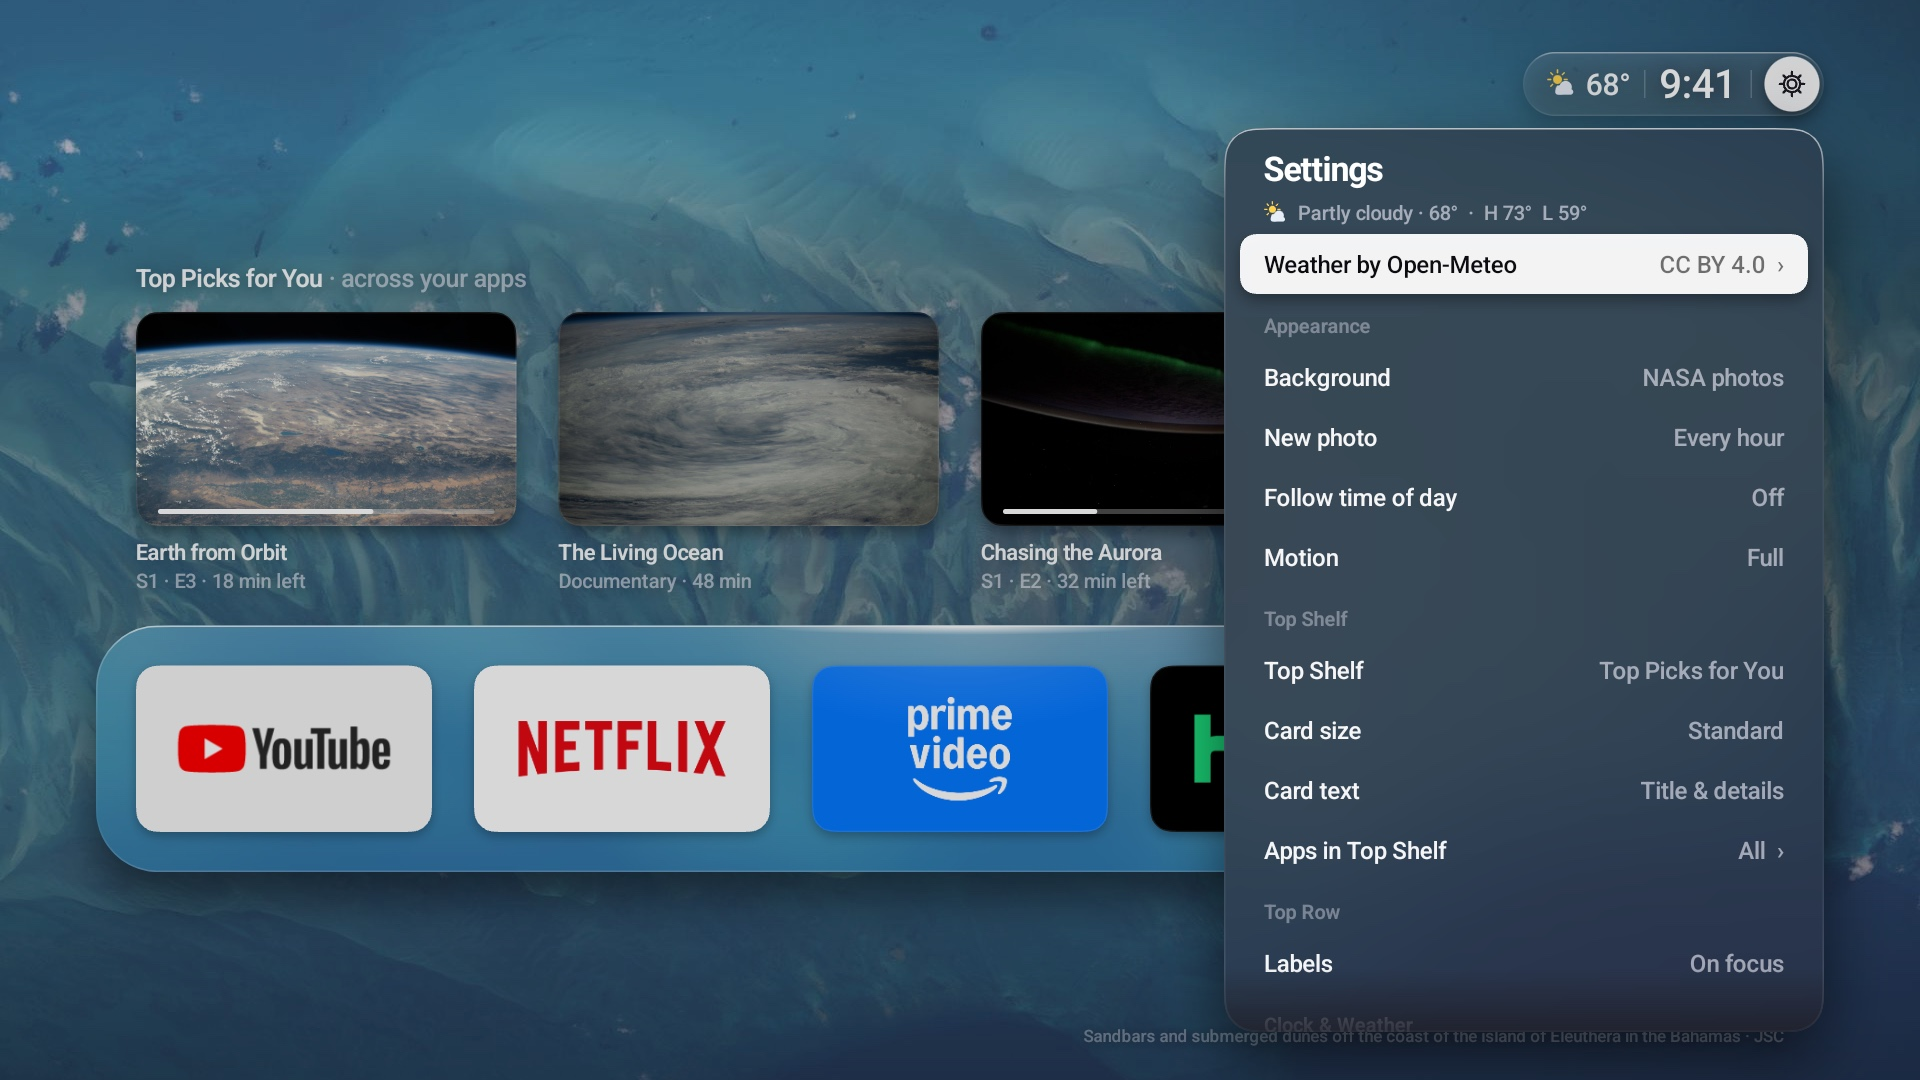
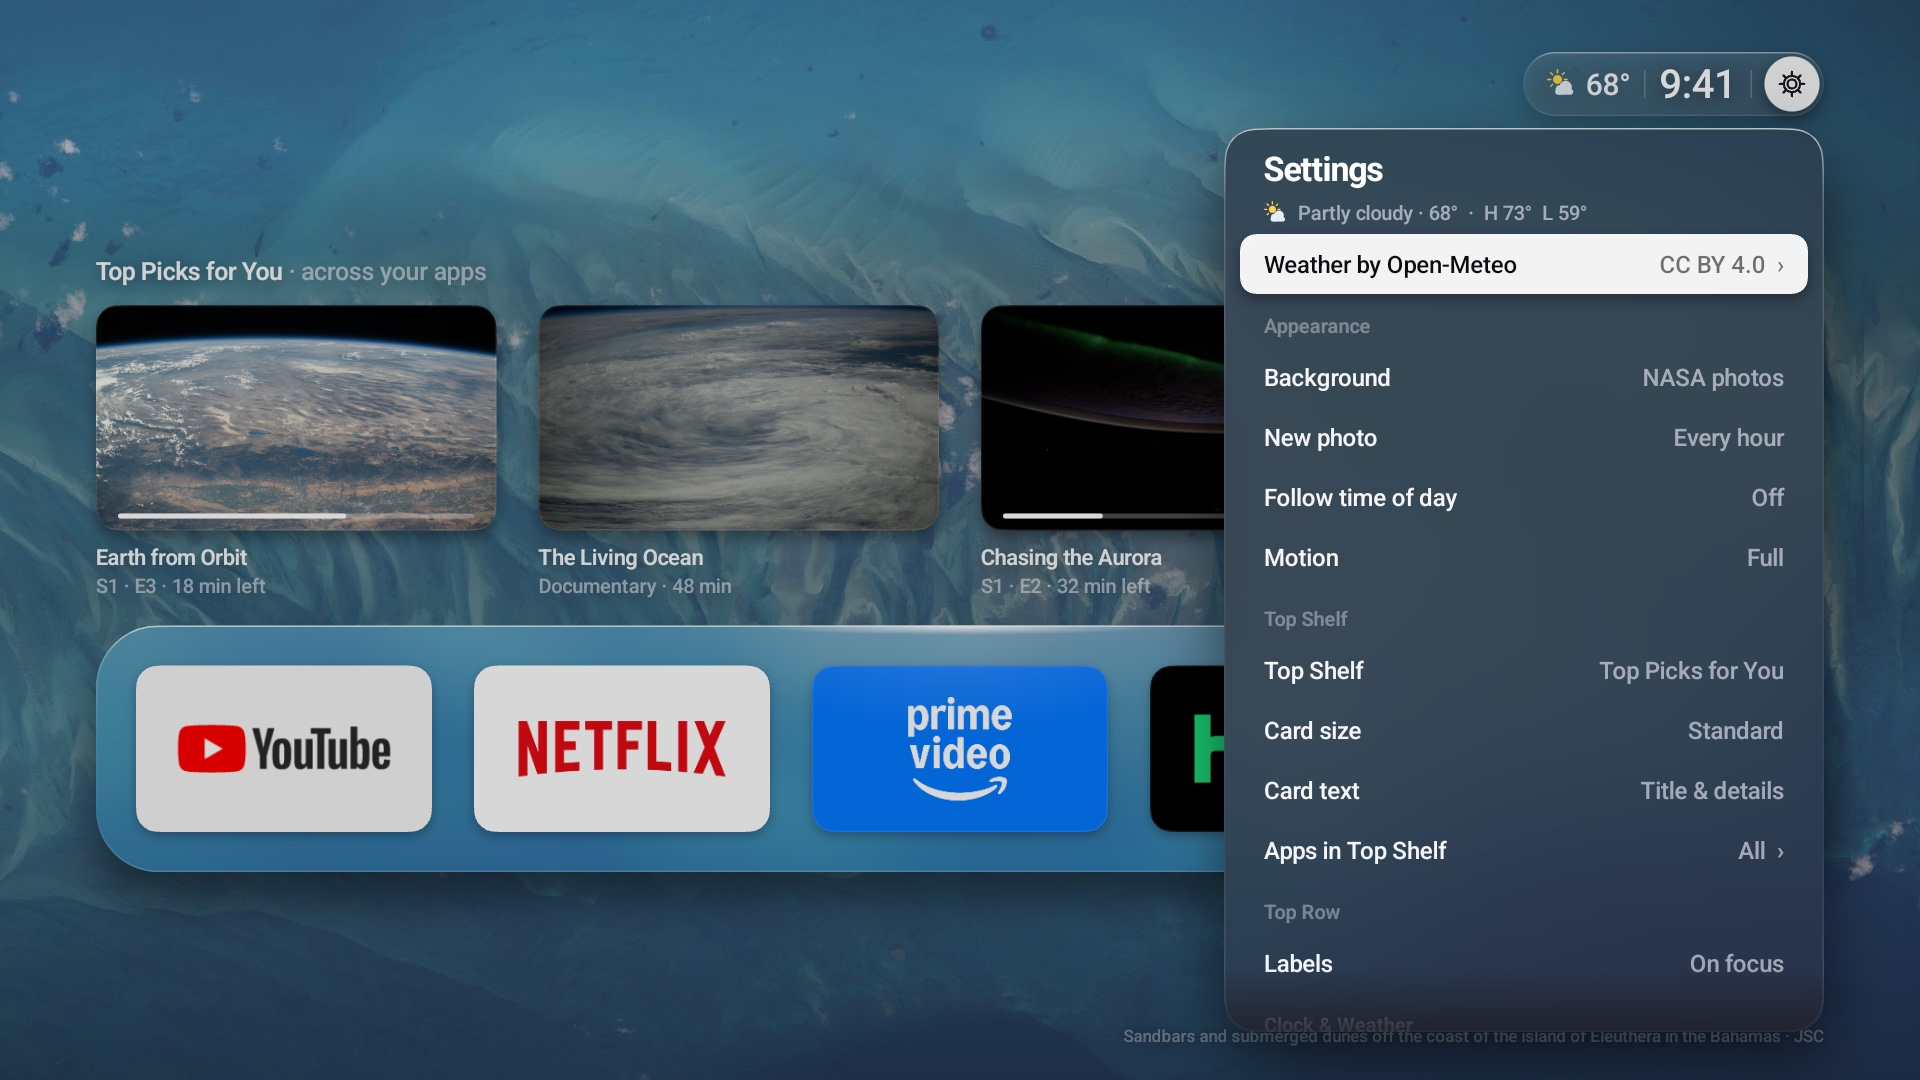
Align the shelf and text to the dock's outer edges
As on main, the Top Shelf heading and first card start on the dock's outer
left edge; the cards now span the dock edge to edge. The clock, date and
photo credit end on its outer right edge, where the focused clock pill
ends, and the All Apps heading and hint start on its left edge.

Changed region(s): [[0.0312, 0.2444, 0.625, 0.55], [0.5, 0.4583, 0.6562, 0.55], [0.5625, 0.9472, 0.9062, 0.9778]]

diff --git a/app/src/dev/lumen/tv/HomeView.java b/app/src/dev/lumen/tv/HomeView.java
@@ -43,11 +43,13 @@ final class HomeView extends View implements Overlays.Host {
 
     // ---- Layout (design px) ----
     private static final float PAD = 40, GAP = 42, TILE_W = AppStore.TILE_W, TILE_H = AppStore.TILE_H;
-    private static final float DOCK_W = Ui.W - 2 * Ui.SAFE_X, LEFT = Ui.SAFE_X + PAD, RIGHT = Ui.W - LEFT;  // ROW_MAX tiles fill the dock exactly; text aligns to the tiles
+    private static final float DOCK_W = Ui.W - 2 * Ui.SAFE_X, LEFT = Ui.SAFE_X + PAD;  // ROW_MAX tiles fill the dock exactly
+    // The dock's outer edges: the shelf, headings and text start and end here, like the dock itself
+    private static final float EDGE_L = Ui.SAFE_X, EDGE_R = Ui.W - Ui.SAFE_X;
     // Tiles and cards use Apple's 60% corner smoothing; the dock's outline is the tiles' outline grown by PAD
     private static final float R_TILE = 22, TILE_SMOOTH = .6f, R_DOCK = R_TILE + PAD, DOCK_SMOOTH = concentric(R_TILE, TILE_SMOOTH, PAD);
     private static final float DOCK_BOTTOM = 872, ROW_MAX = 5;
-    private static final float CARD_W_MAX = 522, CARD_H_MAX = CARD_W_MAX * 9 / 16;
+    private static final float CARD_W_MAX = 548, CARD_H_MAX = CARD_W_MAX * 9 / 16;
     private float cardW, cardH, shelfTop, cardTop;  // set by layoutShelf() from the Card size setting
     private static final float GRID_TOP = 1018, GRID_STEP_Y = TILE_H + 84, APPS_SHIFT = 540;
     private static final long HEARTBEAT_MS = 3400;
@@ -716,7 +718,7 @@ final class HomeView extends View implements Overlays.Host {
     private void drawCredit(Canvas c, float appsT) {
         if (photoCredit == null || appsT > .99f) return;
         creditP.setAlpha(Math.round(Color.alpha(Ui.TEXT_3) * (1 - appsT)));
-        c.drawText(ellipsize(photoCredit, creditP, RIGHT - LEFT - HINT_ROOM), RIGHT, Ui.H - 38, creditP);  // clears the All Apps hint
+        c.drawText(ellipsize(photoCredit, creditP, EDGE_R - EDGE_L - HINT_ROOM), EDGE_R, Ui.H - 38, creditP);  // clears the All Apps hint
     }
 
     private void drawTopBar(Canvas c) {
@@ -733,7 +735,7 @@ final class HomeView extends View implements Overlays.Host {
         float f = focusOf(STATUS_KEY), fc = Ui.clamp(f, 0, 1);
         final float R = Ui.BAR_RIGHT, cy = Ui.BAR_TOP + Ui.BAR_H / 2, sep = 14, hair = 1.5f;
         float chipD = Ui.CHIP_D, gearRoom = Ui.CHIP_INSET + chipD + sep + hair + sep;  // what the chip adds on the right
-        float x = RIGHT - (RIGHT - R + gearRoom) * fc;  // right edge of the text: the tiles' edge at rest, inside the pill focused
+        float x = EDGE_R - (EDGE_R - R + gearRoom) * fc;  // right edge of the text: the dock's edge at rest, inside the pill focused
 
         float clockW = showClock ? clockP.measureText(clockText) : 0;
         String t = showWx ? weather.temp + "°" : null;
@@ -764,7 +766,7 @@ final class HomeView extends View implements Overlays.Host {
             clockP.setAlpha(255);
             c.drawText(clockText, x, cy + .36f * clockP.getTextSize(), clockP);
             if (prefs.is(Prefs.DATE, "on") && overlays.mode != Overlays.PANEL)
-                c.drawText(DateFormat.format("EEEE, MMMM d", now).toString(), RIGHT, Ui.BAR_TOP + Ui.BAR_H + 30, dateP);
+                c.drawText(DateFormat.format("EEEE, MMMM d", now).toString(), EDGE_R, Ui.BAR_TOP + Ui.BAR_H + 30, dateP);
             x -= clockW;
         }
         if (!showWx) return;
@@ -792,11 +794,12 @@ final class HomeView extends View implements Overlays.Host {
         // the focused card draws last, so its shadow lies over its neighbours
         int focusedIdx = area == Area.SHELF ? cardI : -1;
         c.save();
-        c.clipRect(Ui.SAFE_X, -Ui.H, Ui.W - Ui.SAFE_X, 2 * Ui.H);  // cards end with the dock, not at the screen edge
+        // cards end with the dock, not at the screen edge; the clip leaves room for the focus zoom, not the next card
+        c.clipRect(EDGE_L - GAP + 2, -Ui.H, EDGE_R + GAP - 2, 2 * Ui.H);
         for (int i = 0; i < shelf.items.size(); i++) {
             if (i == focusedIdx) continue;
             float x = left + i * (cardW + GAP) - cardScroll.x;
-            if (x > Ui.W - Ui.SAFE_X || x + cardW < Ui.SAFE_X) continue;
+            if (x > EDGE_R + GAP || x + cardW < EDGE_L - GAP) continue;
             drawCard(c, shelf.items.get(i), x, cardTop, a);
         }
         if (focusedIdx >= 0) drawCard(c, shelf.items.get(focusedIdx), left + focusedIdx * (cardW + GAP) - cardScroll.x, cardTop, a);
@@ -806,8 +809,8 @@ final class HomeView extends View implements Overlays.Host {
     /** Card geometry for the Card size setting. Large cards lift the shelf so their text clears the dock. */
     private void layoutShelf() {
         String size = prefs.get(Prefs.CARD_SIZE);
-        int across = "compact".equals(size) ? 5 : "large".equals(size) ? 3 : 4;  // cards span the dock's tile columns
-        cardW = (DOCK_W - 2 * PAD - (across - 1) * GAP) / across;
+        int across = "compact".equals(size) ? 5 : "large".equals(size) ? 3 : 4;  // cards span the dock, edge to edge
+        cardW = (DOCK_W - (across - 1) * GAP) / across;
         cardH = cardW * 9 / 16;
         shelfTop = Math.min(262, DOCK_BOTTOM - TILE_H - 2 * PAD - cardH - 145);
         cardTop = shelfTop + 50;
@@ -815,12 +818,12 @@ final class HomeView extends View implements Overlays.Host {
 
     /** Scrolls only once focus passes the last card that fits on screen. */
     private float cardScrollTarget() {
-        int visible = Math.max(1, (int) ((Ui.W - Ui.SAFE_X - LEFT + GAP) / (cardW + GAP)));
+        int visible = Math.max(1, (int) ((EDGE_R - EDGE_L + GAP + .5f) / (cardW + GAP)));
         return Math.max(0, cardI - (visible - 1)) * (cardW + GAP);
     }
 
-    /** The first recommendation card shares the first favorite tile's leading edge. */
-    private float shelfLeft() { return LEFT; }
+    /** The first recommendation card shares the dock's outer edge. */
+    private float shelfLeft() { return EDGE_L; }
 
     /** Bottom row: the All Apps hint on the left edge, the photo credit on the right, never overlapping. */
     private static final float HINT_ROOM = 200;
@@ -943,7 +946,7 @@ final class HomeView extends View implements Overlays.Host {
         gridHeadP.setAlpha(Math.round(Color.alpha(Ui.TEXT_2) * alpha));
         c.save();
         c.clipRect(0, DOCK_BOTTOM + 20, Ui.W, Ui.H + APPS_SHIFT);  // rows scrolling up slide under the dock
-        c.drawText("All Apps", LEFT, 966 + 26 - gridScroll.x, gridHeadP);
+        c.drawText("All Apps", EDGE_L, 966 + 26 - gridScroll.x, gridHeadP);
         int focusedIdx = area == Area.GRID ? gridI : -1;
         for (int pass = 0; pass < 2; pass++) {  // focused tile last, so its shadow lies on top
             for (int i = 0; i < rest.size(); i++) {
@@ -1062,12 +1065,12 @@ final class HomeView extends View implements Overlays.Host {
         if (a <= 0) return;
         hintP.setAlpha(Math.round(Color.alpha(Ui.TEXT_3) * a));
         float y = Ui.H - 38;
-        c.drawText("All Apps", LEFT + 22, y, hintP);
+        c.drawText("All Apps", EDGE_L + 22, y, hintP);
         stroke.setShader(null);
         stroke.setStrokeWidth(2.2f);
         stroke.setStrokeCap(Paint.Cap.ROUND);
         stroke.setColor(Ui.withAlpha(Ui.TEXT_3, a));
-        float hx = LEFT + 6, hy = y - 8;
+        float hx = EDGE_L + 6, hy = y - 8;
         c.drawLine(hx - 6, hy - 3, hx, hy + 3, stroke);
         c.drawLine(hx, hy + 3, hx + 6, hy - 3, stroke);
         if (idle < 4.7f) postInvalidateDelayed(120);  // fade it out, then stop drawing

diff --git a/docs/design/DESIGN.md b/docs/design/DESIGN.md
@@ -39,10 +39,10 @@ a browser. The arrow keys act as the D-pad, Enter as OK (hold it for the tile me
 | Element | Spec |
 |---|---|
 | Safe area | 96 px left/right, 64 px top/bottom (TV overscan); content aligns to x = 185 px |
-| Clock | Top-right, its right edge (and the date's) on the dock tiles' right edge, 40 px, Inter Medium, −2% tracking, tabular figures, 95% white. Optional date below, 21 px, 62% white |
+| Clock | Top-right, its right edge (and the date's) on the dock's outer right edge, 40 px, Inter Medium, −2% tracking, tabular figures, 95% white. Optional date below, 21 px, 62% white |
 | Weather | Left of the clock, separated by a 1.5 px hairline: a color glyph (34 px) and the temperature, 30 px Medium, 62% white |
-| Top Shelf | Heading at y = 262 px: **Top Picks for You**, 25 px SemiBold, then “across your apps” in 62% white. Cards span the dock's tile columns, so the first card aligns with the first tile: Standard 4 across (380×214 px), Compact 5 (exactly over the tiles), Large 3; radius 22, gap 42, with the episode/time line set flush with the card's left edge |
-| Dock | Glass (see Materials), full width between the 96 px overscan margins, bottom edge at 81% of screen height. Padding 40 px, tile gap 42 px, so five tiles fill it exactly. Tiles and cards use Apple's 60% corner smoothing; the dock (radius 62 = tile radius + padding) and the focus ring take whatever smoothing makes their corners begin exactly a padding further along the edge, so every outline runs parallel to the one inside it. Everything shares the dock's edges: the shelf, grid and All Apps hint start on the tiles' left edge; the clock, date and photo credit end on their right edge; Top Shelf cards are clipped to the dock's width |
+| Top Shelf | Heading at y = 262 px: **Top Picks for You**, 25 px SemiBold, then “across your apps” in 62% white. Cards span the dock edge to edge, so the first card and the heading align with the dock's outer edge: Standard 4 across (400×225 px), Compact 5, Large 3; radius 22, gap 42, with the episode/time line set flush with the card's left edge |
+| Dock | Glass (see Materials), full width between the 96 px overscan margins, bottom edge at 81% of screen height. Padding 40 px, tile gap 42 px, so five tiles fill it exactly. Tiles and cards use Apple's 60% corner smoothing; the dock (radius 62 = tile radius + padding) and the focus ring take whatever smoothing makes their corners begin exactly a padding further along the edge, so every outline runs parallel to the one inside it. Everything shares the dock's outer edges (96 and 1824 px): the shelf heading and cards, the All Apps heading and the All Apps hint start on the left one; the clock, date, photo credit and last card end on the right one, where the focused clock pill also ends. Top Shelf cards are clipped to the dock's width |
 | Tiles | 16:9, radius 22 px. Medium 296×166.5 px (default, five across), Small 232×130 (six), Large 376×211 (four) |
 | Focus | A crisp white 3 px focus ring, with a 2.5 px gap and no glow or dark edge on apps and recommendation cards, plus scale 1.09 (cards 1.07) over 240 ms, deep soft shadow and a low-contrast, static top-light sheen. Focused tiles and cards add a softly eased 0.4% double-beat pulse every 3.4 s; it starts only after D-pad navigation. Home restores stable focus by app/content identity at rest, without a zoom replay or entry pulse. Focus springs are critically damped. Reduced motion and open menus pause it. The dock's specular highlight slides to sit above the focused tile |
 | Label | Focused tile only (default). 25 px SemiBold, 22 px under the dock |
